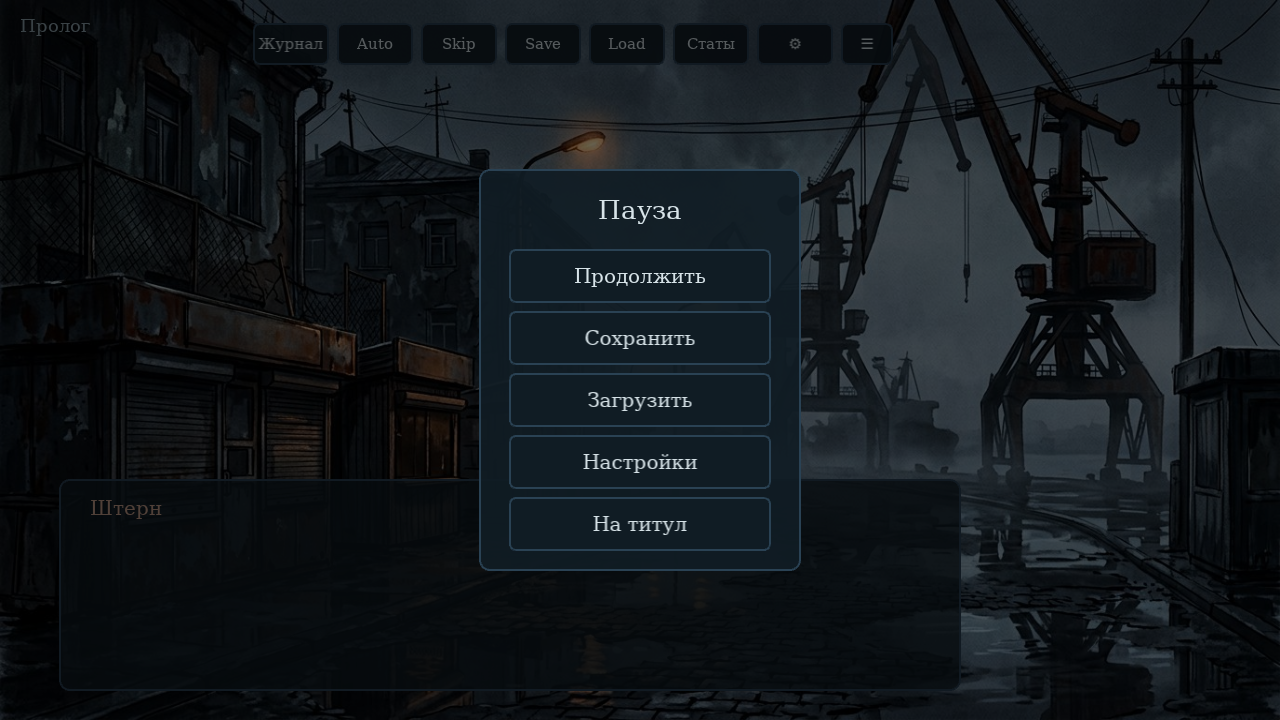
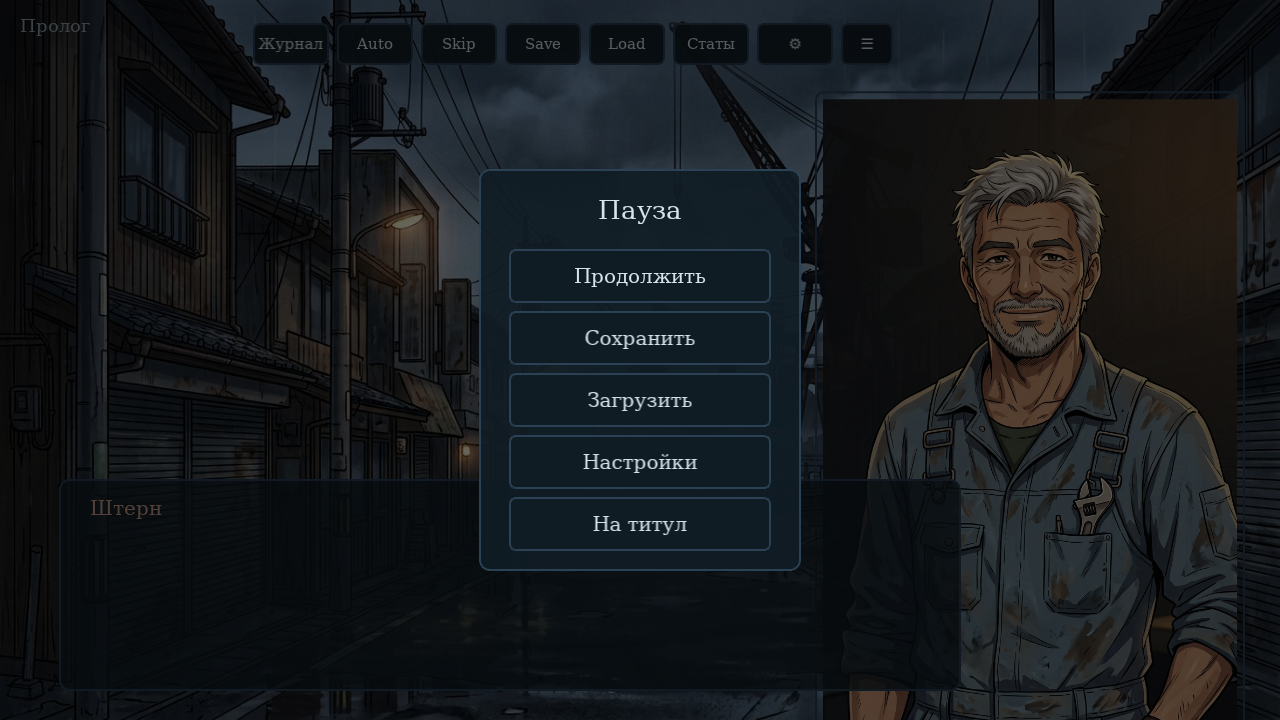
art(game): аниме-стилистика классических японских VN (SPEC v1.2)
- 6 портретов (Марина с длинными волосами ×3, Дарья ×2, Штерн), 4 фона перегенерированы
- 3 фона приведены к стилю тунификацией (scripts/toonify.py, pillow)
- манифест: все 6 портретов подключены; quick-меню «Статы» текстом вместо эмодзи
- e2e: устранена гонка ожидания кнопок выбора; 2 прогона OK
- Capacitor/android без изменений

diff --git a/game/src/content/assetsManifest.ts b/game/src/content/assetsManifest.ts
@@ -31,6 +31,9 @@ export const PORTRAIT_FILES: Record<string, string> = {
   'marina.calm': 'p_marina_calm.png',
   'marina.smile': 'p_marina_smile.png',
   'marina.sad': 'p_marina_sad.png',
+  'daria.warm': 'p_daria_warm.png',
+  'daria.tense': 'p_daria_tense.png',
+  'ark.calm': 'p_ark_calm.png',
 };
 
 export function portraitFile(who: string, pose: string): string | null {

diff --git a/game/scripts/toonify.py b/game/scripts/toonify.py
@@ -1,0 +1,46 @@
+#!/usr/bin/env python3
+"""Тунификация реалистичных фонов под аниме-стилистику SPEC v1.2.
+
+Обработка: двустороннее сглаживание (аппроксимация) -> квантование палитры ->
+поднятие чёткости контуров. Запуск:
+    python3 scripts/toonify.py public/assets/art/bg_lighthouse_day.jpg [...]
+Все преобразования применяются к нашим собственным сгенерированным ассетам.
+"""
+import sys
+from pathlib import Path
+from PIL import Image, ImageFilter, ImageEnhance
+
+COLORS = 28          # палитра «сел-шейдинга»
+SMOOTH_PASSES = 3    # сколько раз прогнать смягчающий фильтр
+EDGE_STRENGTH = 1.9  # усиление контуров
+
+def toonify(path: Path) -> None:
+    img = Image.open(path).convert('RGB')
+    w, h = img.size
+
+    # 1) аппроксимация bilateral: downscale -> upscale для выравнивания областей
+    small = img.resize((w // 3, h // 3), Image.LANCZOS)
+    for _ in range(SMOOTH_PASSES):
+        small = small.filter(ImageFilter.ModeFilter(3))
+    flat = small.resize((w, h), Image.LANCZOS)
+
+    # 2) квантование цветов -> «плоские» области сел-шейдинга
+    flat = flat.quantize(colors=COLORS, method=Image.Quantize.MEDIANCUT).convert('RGB')
+
+    # 3) контуры: находим кромки на оригинале, чуть затемняем их в результате
+    edges = img.convert('L').filter(ImageFilter.FIND_EDGES)
+    edges = edges.point(lambda p: 255 - p)          # линии = тёмные
+    edges = edges.point(lambda p: max(0, p - 115) * 2)  # отсечь шум, усилить
+    edge_rgb = Image.merge('RGB', (edges, edges, edges))
+    darkened = Image.blend(flat, Image.new('RGB', flat.size, (10, 14, 20)), 0.10)
+    out = Image.composite(darkened, flat, edges.point(lambda p: 255 - p // 3))
+
+    out = ImageEnhance.Color(out).enhance(1.06)
+    out = ImageEnhance.Contrast(out).enhance(1.04)
+    out = ImageEnhance.Sharpness(out).enhance(EDGE_STRENGTH)
+    out.save(path, quality=90)
+    print(f'toonified: {path.name}')
+
+if __name__ == '__main__':
+    for arg in sys.argv[1:]:
+        toonify(Path(arg))

diff --git a/SPEC.md b/SPEC.md
@@ -5,7 +5,7 @@
 **Единый источник правды.** Код обязан соответствовать этому документу. Любое отклонение —
 либо правка кода, либо изменение SPEC.md (с версией).
 
-Версия спеки: **1.1** · Дата: 2026-08-01
+Версия спеки: **1.2** · Дата: 2026-08-02
 
 **История изменений**
 - 1.1: пороги веток уточнены после смоук-прохода (автоплей): светлая концовка Марины —
@@ -13,6 +13,11 @@
   глазами). Светлая концовка — сознательно «золотой путь» (единственная цепочка выборов).
   Форк «уезжаю» единый: слова Штерну == подписанию сделки. Пороги и таймеры живут в
   `balance.ts`; дельты выборов — рядом с выбором в узлах (авторские значения).
+- 1.2: арт-дирекшн изменён по решению заказчика: **классические японские визуальные
+  новеллы ~2000-х годов** (аниме сел-шейдинг, длинные волосы у героинь, взрослые
+  пропорции — героини явно читаются как 27/26-летние). Оригинальные дизайны персонажей;
+  запрет на копирование конкретных героинь существующих игр остаётся (§0). Реалистичный
+  живописный стиль v1.0–1.1 полностью заменяется.
 
 ---
 
@@ -305,11 +310,12 @@ game/
 
 ---
 
-## Приложение A. Статус реализации (после срезов P0, 2026-08-01)
+## Приложение A. Статус реализации (после срезов P0, 2026-08-02)
 
-P0 выполнен по E1–E13 с одним честным отклонением: в E10 из 6 запланированных портретов
-сгенерированы 3 (Марина) — упёрся в лимит генерации изображений 10/сессия; отсутствие
-файлов обрабатывается манифестом (сцены без битых ссылок), догенерация портретов
-Дарьи/Штерна и отдельных CG — первым пунктом P1. Проверки: 11/11 unit, автоплей
-(все 4 концовки достижимы), E2E 23/23 в headless Chromium, `tsc --noEmit` чист,
-`vite build` зелёный, консоль рантайма без ошибок.
+P0 выполнен по E1–E13. Арт-дирекшн v1.2 (классические японские VN) применена: 6 портретов
+(Марина ×3 — длинные волосы, Дарья ×2, Штерн) + 7 фонов; 3 фона из «запасной волны»
+лимита генерации приведены к стилю локальной тунификацией (scripts/toonify.py).
+Отдельные CG концовок не сгенерированы (лимит 10/сессия): экраны концовок работают на
+стилизованных композициях фонов с цветокором — догенерация CG в P1. Проверки: 11/11
+unit, автоплей (все 4 концовки достижимы), E2E 24/24 × 2 прогона подряд в headless
+Chromium, `tsc --noEmit` чист, `vite build` зелёный, консоль рантайма без ошибок.
